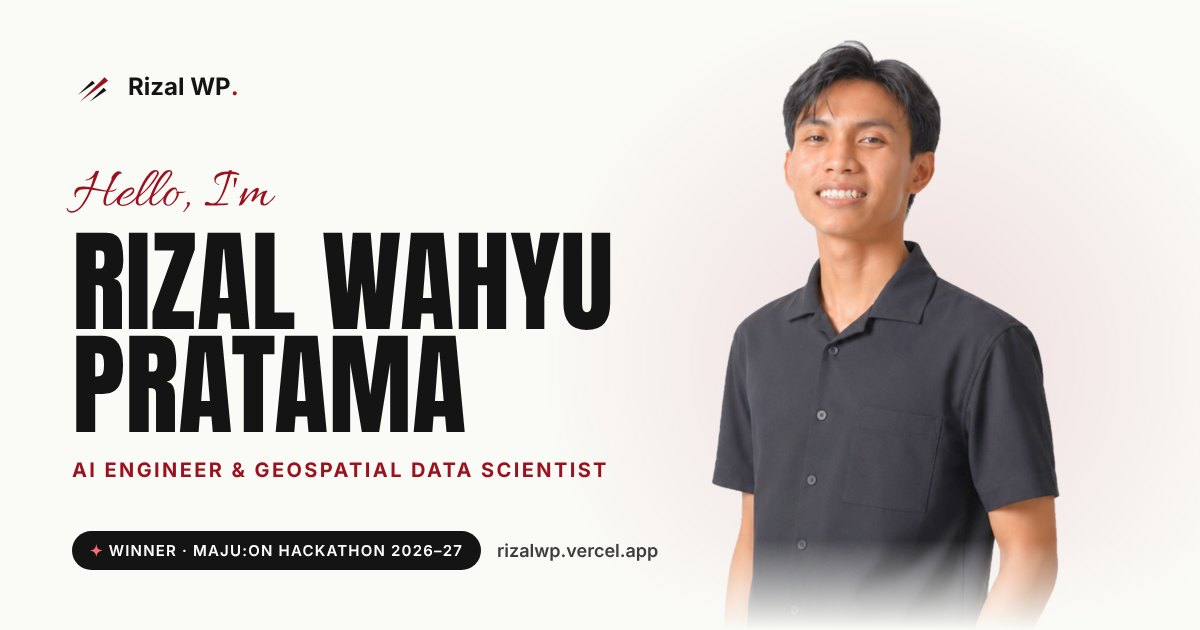
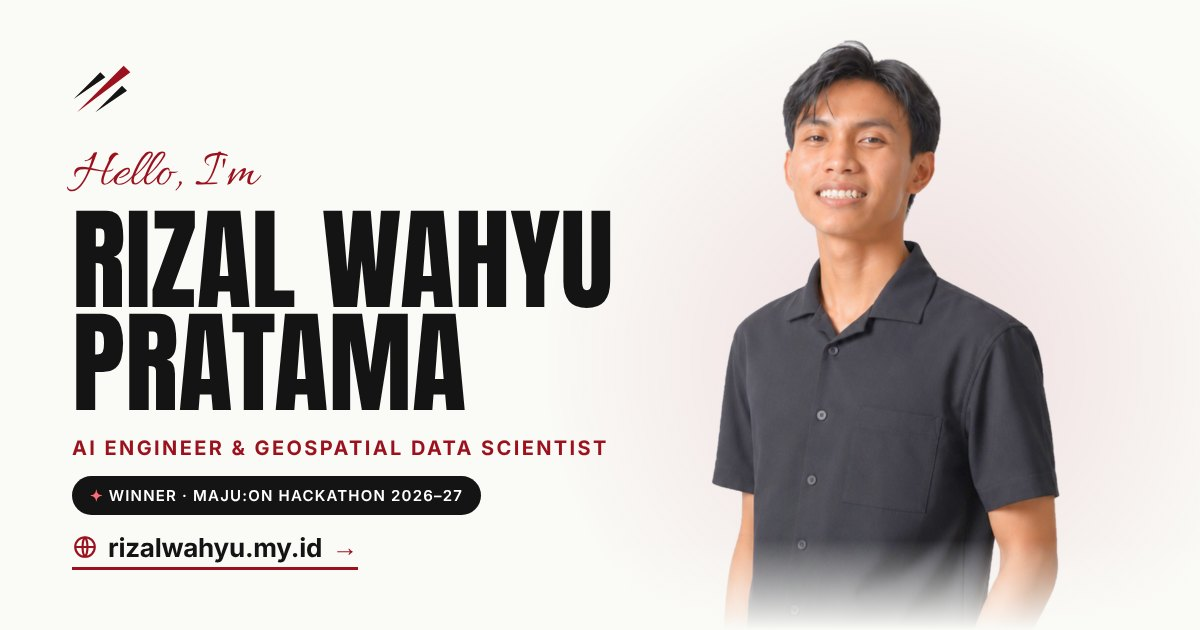
Move to rizalwahyu.my.id and show the URL on the share card
- Canonical, Open Graph, Twitter and JSON-LD URLs now use https://rizalwahyu.my.id
- Share card shows the website address and the logo mark only
- Add robots.txt and sitemap.xml for the new domain

Claude-Session: https://claude.ai/code/session_011eVbEGki5XFA5mhqGZiesv

Changed region(s): [[0.0617, 0.2413, 0.5242, 0.9048], [0.4317, 0.8444, 0.555, 0.9048], [0.0617, 0.0905, 0.2158, 0.181]]

diff --git a/index.html b/index.html
@@ -10,14 +10,14 @@
     <meta name="keywords" content="AI Engineer, Data Scientist, Machine Learning, Agentic AI, FastAPI, Python, Google Earth Engine, Geospatial AI, Orbitani, Telkom University, Rizal Wahyu Pratama">
     <meta name="author" content="Rizal Wahyu Pratama">
     <meta name="robots" content="index, follow">
-    <link rel="canonical" href="https://rizalwp.vercel.app/">
+    <link rel="canonical" href="https://rizalwahyu.my.id/">
 
     <meta property="og:type" content="website">
-    <meta property="og:url" content="https://rizalwp.vercel.app/">
+    <meta property="og:url" content="https://rizalwahyu.my.id/">
     <meta property="og:title" content="Rizal Wahyu Pratama | AI Engineer &amp; Data Scientist">
     <meta property="og:description" content="Building AI + satellite-data products with Python, FastAPI and agentic AI. Winner of MAJU:ON Hackathon 2026-27, AI·AX Track.">
-    <meta property="og:image" content="https://rizalwp.vercel.app/assets/og-image.jpg?v=2">
-    <meta property="og:image:secure_url" content="https://rizalwp.vercel.app/assets/og-image.jpg?v=2">
+    <meta property="og:image" content="https://rizalwahyu.my.id/assets/og-image.jpg?v=3">
+    <meta property="og:image:secure_url" content="https://rizalwahyu.my.id/assets/og-image.jpg?v=3">
     <meta property="og:image:type" content="image/jpeg">
     <meta property="og:image:alt" content="Rizal Wahyu Pratama, AI Engineer and Geospatial Data Scientist">
     <meta property="og:image:width" content="1200">
@@ -28,7 +28,7 @@
     <meta name="twitter:card" content="summary_large_image">
     <meta name="twitter:title" content="Rizal Wahyu Pratama | AI Engineer &amp; Data Scientist">
     <meta name="twitter:description" content="Building AI + satellite-data products with Python, FastAPI and agentic AI.">
-    <meta name="twitter:image" content="https://rizalwp.vercel.app/assets/og-image.jpg?v=2">
+    <meta name="twitter:image" content="https://rizalwahyu.my.id/assets/og-image.jpg?v=3">
     <meta name="twitter:image:alt" content="Rizal Wahyu Pratama, AI Engineer and Geospatial Data Scientist">
 
     <link rel="icon" href="favicon.ico" sizes="any">
@@ -48,9 +48,9 @@
         "@context": "https://schema.org",
         "@type": "Person",
         "name": "Rizal Wahyu Pratama",
-        "url": "https://rizalwp.vercel.app/",
-        "image": "https://rizalwp.vercel.app/assets/og-image.jpg",
-        "logo": "https://rizalwp.vercel.app/assets/logo/logo-shards.svg",
+        "url": "https://rizalwahyu.my.id/",
+        "image": "https://rizalwahyu.my.id/assets/og-image.jpg",
+        "logo": "https://rizalwahyu.my.id/assets/logo/logo-shards.svg",
         "jobTitle": "AI Engineer",
         "email": "mailto:hello.rizalwahyu@gmail.com",
         "address": { "@type": "PostalAddress", "addressLocality": "Purwokerto", "addressRegion": "Central Java", "addressCountry": "ID" },
